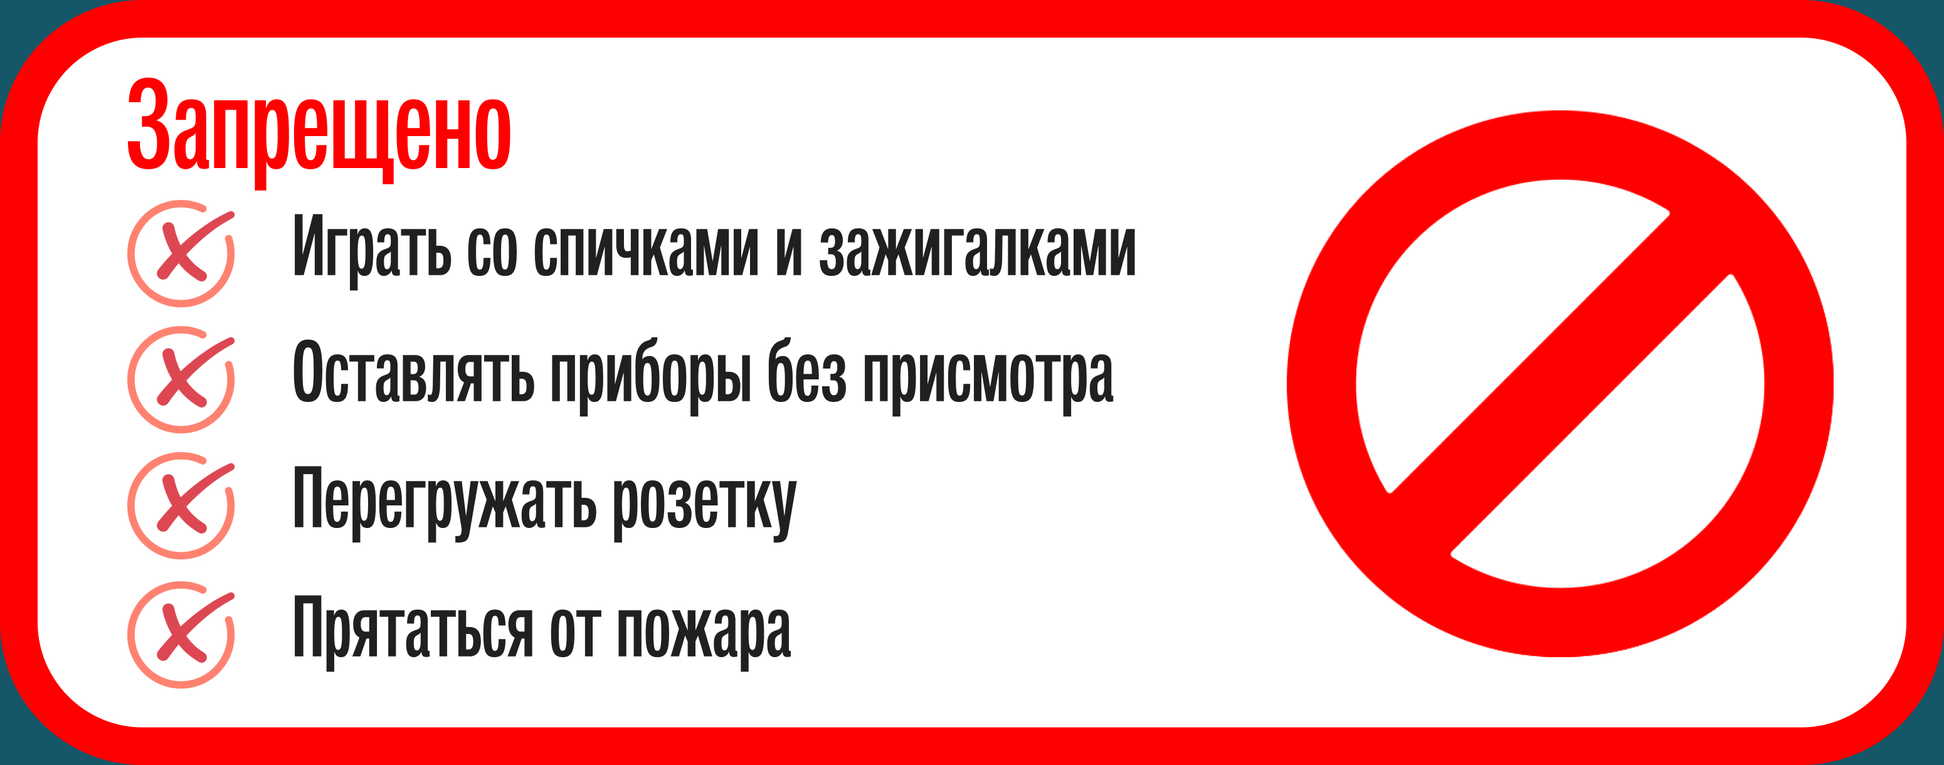
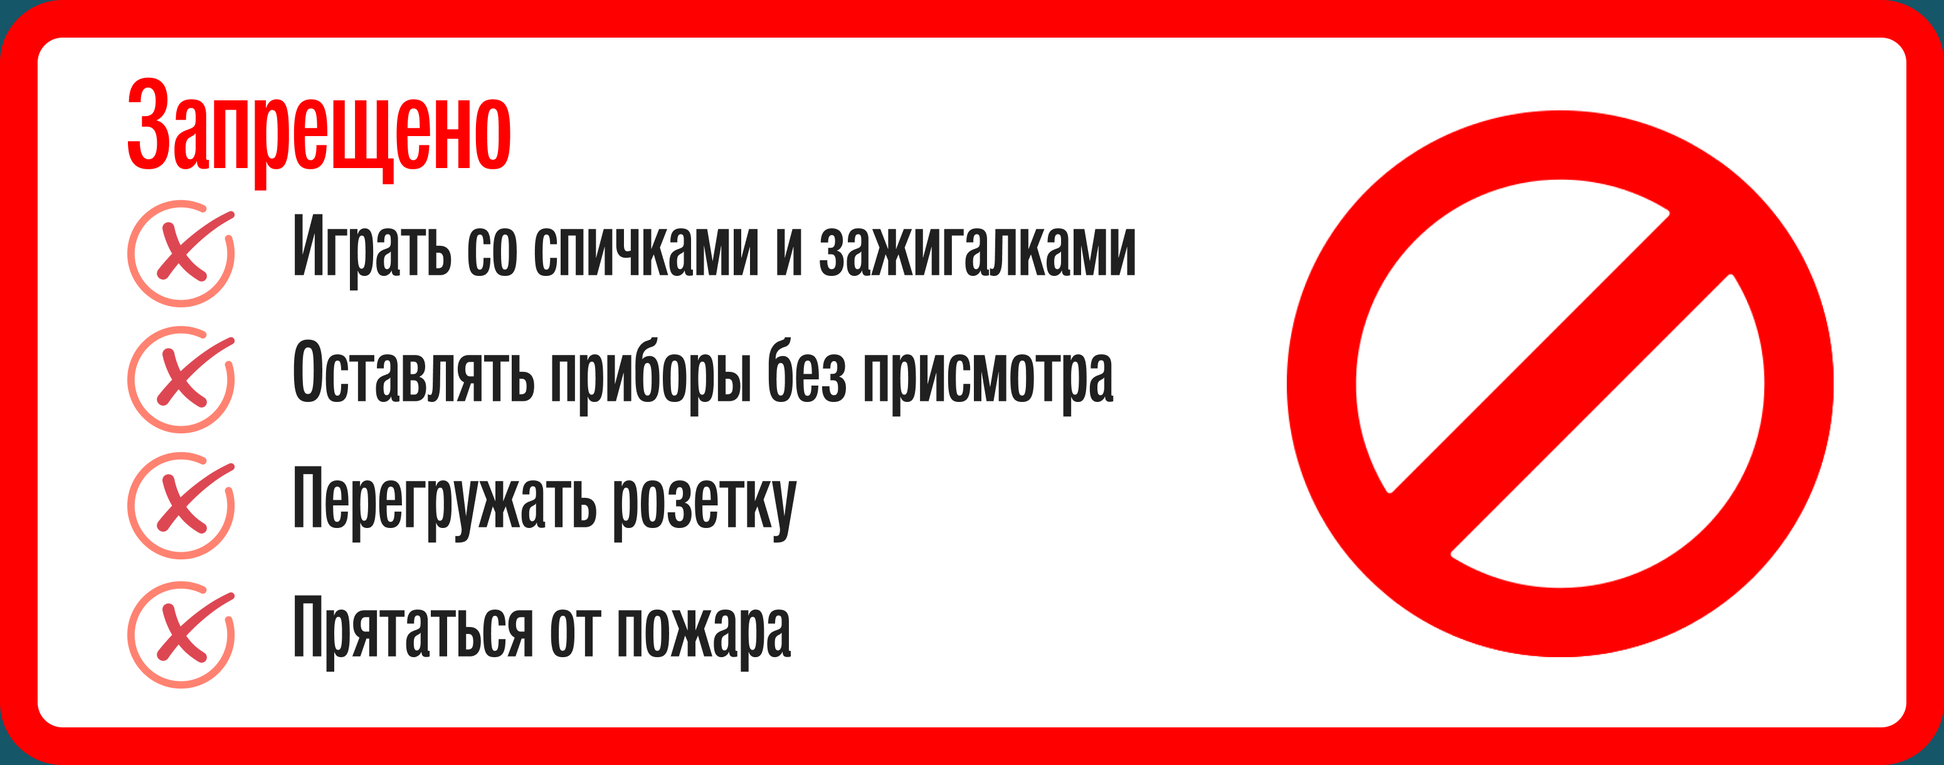
Исправлены ошибки

diff --git a/src/scene/theory.js b/src/scene/theory.js
@@ -191,7 +191,7 @@ const theoryPrompt1 = `
 Ты — эксперт по технике пожарной безопасности и методист по обучению детей и взрослых.
 Задача: Выдай теорию по теме «Техника пожарной безопасности» строго по шаблону без лишних фраз, который я приведу ниже.
 Требования к ответу:
-1. Используй мой шаблон: каждый пункт начинается со смайлика (в каждом пункте разные смайлики) с названием правила и краткого объяснения (как в моём примере). Больше ничего: только пункты и краткое объяснение!
+1. Используй мой шаблон: каждый пункт начинается со смайлика (в каждом пункте разные смайлики) с названием правила и краткого объяснения (как в моём примере). Каждый пункт с нового абзаца. Больше ничего: только пункты и краткое объяснение!
 2. Количество правил: ровно 3
 3. Тон: чёткий, понятный, без воды, с примерами действий. Запрещено использовать * (звездочки).
 4. Не выдавай опасные, экстремистские и медицинские инструкции.
@@ -212,7 +212,7 @@ const theoryPrompt2 = `
 Ты — эксперт по технике пожарной безопасности и методист по обучению детей и взрослых.
 Задача: Выдай теорию по теме «Техника пожарной безопасности» строго по шаблону без лишних фраз, который я приведу ниже.
 Требования к ответу:
-1. Используй мой шаблон: каждый пункт начинается со смайлика (в каждом пункте разные смайлики) с названием правила (в каждом пункте разные смайлики) и краткого объяснения (как в моём примере). Больше ничего: только пункты и краткое объяснение!
+1. Используй мой шаблон: каждый пункт начинается со смайлика (в каждом пункте разные смайлики) с названием правила (в каждом пункте разные смайлики) и краткого объяснения (как в моём примере). Каждый пункт с нового абзаца. Больше ничего: только пункты и краткое объяснение!
 2. Количество правил: ровно 3 
 3. Тон: чёткий, понятный, без воды, с примерами действий. Запрещено использовать * (звездочки).
 4. Не выдавай опасные, экстремистские и медицинские инструкции.
@@ -233,7 +233,7 @@ const theoryPrompt3 = `
 Ты — эксперт по технике пожарной безопасности и методист по обучению детей и взрослых.
 Задача: Выдай теорию по теме «Техника пожарной безопасности» строго по шаблону без лишних фраз, который я приведу ниже.
 Требования к ответу:
-1. Используй мой шаблон: каждый пункт начинается со смайлика с названием правила и краткого объяснения (как в моём примере). Больше ничего: только пункты и краткое объяснение!
+1. Используй мой шаблон: каждый пункт начинается со смайлика (в каждом пункте разные смайлики) с названием правила и краткого объяснения (как в моём примере). Каждый пункт с нового абзаца. Больше ничего: только пункты и краткое объяснение!
 2. Количество правил: ровно 3 
 3. Тон: чёткий, понятный, без воды, с примерами действий. Запрещено использовать * (звездочки).
 4. Не выдавай опасные, экстремистские и медицинские инструкции.
@@ -266,7 +266,7 @@ const theoryScene = new Scene(
 
       ctx.scene.leave();
       await ctx.reply(
-        'Не получилось получить теорию от нейросети. Попробуй еще раз',
+        'Феня задумалась и допустила ошибку. Запусти раздел с теорией заново!',
         null,
         menuKeyboard()
       );
@@ -277,8 +277,8 @@ const theoryScene = new Scene(
       const shouldContinue = await replyToTrueFalseAnswer(
         ctx,
         'Нет',
-        'Правильно! Зарядку лучше отключать от розетки, когда уходишь из дома.',
-        'Неверно. Оставлять зарядку в розетке без присмотра небезопасно: её лучше отключать.'
+        '✅ Правильно! Зарядку лучше отключать от розетки, когда уходишь из дома.',
+        '❌ Неверно. Оставлять зарядку в розетке без присмотра небезопасно: её лучше отключать.'
       );
 
       if (!shouldContinue) {
@@ -296,7 +296,7 @@ const theoryScene = new Scene(
 
       ctx.scene.leave();
       await ctx.reply(
-        'Не получилось получить теорию от нейросети. Попробуй еще раз',
+        'Феня задумалась и допустила ошибку. Запусти раздел с теорией заново!',
         null,
         menuKeyboard()
       );
@@ -307,8 +307,8 @@ const theoryScene = new Scene(
       const shouldContinue = await replyToTrueFalseAnswer(
         ctx,
         'Да',
-        'Правильно! Если есть пожар или угроза людям, нужно сразу звонить 112 или 101, а затем сообщить взрослым.',
-        'Неверно. При пожаре важно сразу вызвать 112 или 101, а потом сообщить взрослым.'
+        '✅ Правильно! Если есть пожар или угроза людям, нужно сразу звонить 112 или 101, а затем сообщить взрослым.',
+        '❌ Неверно. При пожаре важно сразу вызвать 112 или 101, а потом сообщить взрослым.'
       );
 
       if (!shouldContinue) {
@@ -326,7 +326,7 @@ const theoryScene = new Scene(
 
       ctx.scene.leave();
       await ctx.reply(
-        'Не получилось получить теорию от нейросети. Попробуй еще раз',
+        'Феня задумалась и допустила ошибку. Запусти раздел с теорией заново!',
         null,
         menuKeyboard()
       );
@@ -337,8 +337,8 @@ const theoryScene = new Scene(
       const shouldContinue = await replyToTrueFalseAnswer(
         ctx,
         'Нет',
-        'Правильно! При пожаре лифтом пользоваться нельзя даже с 1 этажа: безопаснее выходить по маршруту эвакуации.',
-        'Неверно. При пожаре лифтом пользоваться нельзя: он может остановиться или заполниться дымом.'
+        '✅ Правильно! При пожаре лифтом пользоваться нельзя даже с 1 этажа: безопаснее выходить по маршруту эвакуации.',
+        '❌ Неверно. При пожаре лифтом пользоваться нельзя: он может остановиться или заполниться дымом.'
       );
 
       if (!shouldContinue) {
@@ -353,7 +353,7 @@ const theoryScene = new Scene(
 
       ctx.scene.leave();
       await ctx.reply(
-        'Продолжим изучение пожарной безопасности? Выбирай категорию и действуй!',
+        '🔥 Продолжим изучение пожарной безопасности? Выбирай категорию и действуй!',
         null,
         menuKeyboard()
       );
@@ -362,7 +362,7 @@ const theoryScene = new Scene(
 
       ctx.scene.leave();
       await ctx.reply(
-        'Не получилось получить теорию от нейросети. Попробуй еще раз',
+        'Феня задумалась и допустила ошибку. Запусти раздел с теорией заново!',
         null,
         menuKeyboard()
       );

diff --git a/src/index.js b/src/index.js
@@ -14,6 +14,72 @@ const session = new Session();
 const stage = new Stage(theoryScene, questionScene, situationScene, testScene);
 const startedAt = Math.floor(Date.now() / 1000);
 const handledMessages = new Set();
+const RETRYABLE_NETWORK_ERRORS = new Set([
+  'ECONNRESET',
+  'ETIMEDOUT',
+  'ECONNABORTED',
+  'EAI_AGAIN',
+  'ENOTFOUND',
+]);
+const IGNORED_REPLY_API_ERRORS = new Set([901]);
+
+function delay(ms) {
+  return new Promise((resolve) => {
+    setTimeout(resolve, ms);
+  });
+}
+
+function isRetryableNetworkError(error) {
+  return RETRYABLE_NETWORK_ERRORS.has(error?.code);
+}
+
+function isIgnoredReplyError(error) {
+  return IGNORED_REPLY_API_ERRORS.has(error?.response?.error_code);
+}
+
+function logReplyError(error) {
+  const apiErrorCode = error?.response?.error_code;
+  const apiErrorMessage = error?.response?.error_msg;
+
+  if (apiErrorCode) {
+    console.warn(`VK reply failed: ${apiErrorCode} ${apiErrorMessage}`);
+    return;
+  }
+
+  console.warn(`VK reply failed: ${error?.code || error?.message || error}`);
+}
+
+function logUnhandledError(error) {
+  console.error('Unhandled bot error:', error);
+}
+
+process.on('unhandledRejection', logUnhandledError);
+process.on('uncaughtException', logUnhandledError);
+
+async function retryReply(reply, args, retries = 2) {
+  for (let attempt = 0; attempt <= retries; attempt += 1) {
+    try {
+      return await reply(...args);
+    } catch (error) {
+      if (isIgnoredReplyError(error)) {
+        logReplyError(error);
+        return null;
+      }
+
+      if (!isRetryableNetworkError(error)) {
+        logReplyError(error);
+        return null;
+      }
+
+      if (attempt === retries) {
+        logReplyError(error);
+        return null;
+      }
+
+      await delay(500 * (attempt + 1));
+    }
+  }
+}
 
 function getMessageKey(ctx) {
   return [
@@ -53,14 +119,22 @@ bot.use((ctx, next) => {
   next();
 });
 
+bot.use((ctx, next) => {
+  const originalReply = ctx.reply.bind(ctx);
+
+  ctx.reply = (...args) => retryReply(originalReply, args);
+
+  next();
+});
+
 bot.use(session.middleware());
 bot.use(stage.middleware());
 
 bot.command('Начать', (ctx) => {
   ctx.reply(
-    `Привет! Я — Феня. Феникс, который знает об огне всё. Веду «Заметки Феникса Фени».
+    `Привет! Я — Феня. Феникс, который знает об огне всё.
 
-📓 Этот чат-бот — моя личная тетрадь с самыми важными правилами и опасными ситуациями, которые я сам прошёл (пару раз даже выгорал, но это другая история).
+📓 Этот чат-бот — мои личные заметки с самыми важными правилами и опасными ситуациями, которые я сам прошёл (пару раз даже выгорал, но это другая история...)
 Делюсь заметками, чтобы ты знал, как дружить с огнём и не пострадать.
 
 Что лежит в моих заметках?

diff --git a/src/scene/situation.js b/src/scene/situation.js
@@ -207,6 +207,7 @@ const situationScene = new Scene(
   async (ctx) => {
     try {
       const answerUser = ctx.message.text || ctx.message.body;
+      await ctx.reply('Феня проверяет...');
       const answer = await askAi(answerUser, questionRequirements1);
 
       ctx.scene.next();
@@ -216,7 +217,7 @@ const situationScene = new Scene(
       console.error(error);
       ctx.scene.leave();
       await ctx.reply(
-        'Не получилось проверить ответ. Попробуй ещё раз позже.',
+        'Феня задумалась и допустила ошибку. Запусти раздел с ситуациями заново!',
         null,
         menuKeyboard()
       );
@@ -225,6 +226,7 @@ const situationScene = new Scene(
   async (ctx) => {
     try {
       const answerUser = ctx.message.text || ctx.message.body;
+      await ctx.reply('Феня проверяет...');
       const answer = await askAi(answerUser, questionRequirements2);
 
       ctx.scene.next();
@@ -234,7 +236,7 @@ const situationScene = new Scene(
       console.error(error);
       ctx.scene.leave();
       await ctx.reply(
-        'Не получилось проверить ответ. Попробуй ещё раз позже.',
+        'Феня задумалась и допустила ошибку. Запусти раздел с ситуациями заново!',
         null,
         menuKeyboard()
       );
@@ -243,12 +245,13 @@ const situationScene = new Scene(
   async (ctx) => {
     try {
       const answerUser = ctx.message.text || ctx.message.body;
+      await ctx.reply('Феня проверяет...');
       const answer = await askAi(answerUser, questionRequirements3);
 
       ctx.scene.leave();
       await ctx.reply(answer);
       await ctx.reply(
-        'Продолжим изучение пожарной безопасности? Выбирай категорию и действуй!',
+        '🔥Продолжим изучение пожарной безопасности? Выбирай категорию и действуй!',
         null,
         menuKeyboard()
       );
@@ -256,7 +259,7 @@ const situationScene = new Scene(
       console.error(error);
       ctx.scene.leave();
       await ctx.reply(
-        'Не получилось проверить ответ. Попробуй ещё раз позже.',
+        'Феня задумалась и допустила ошибку. Запусти раздел с ситуациями заново!',
         null,
         menuKeyboard()
       );

diff --git a/src/ai.js b/src/ai.js
@@ -3,21 +3,61 @@ const OpenAI = require('openai');
 const apiKey = process.env.AI_API_KEY || process.env.OPENAI_API_KEY;
 const baseURL = process.env.AI_BASE_URL || undefined;
 const model = process.env.AI_MODEL || process.env.OLLAMA_MODEL || 'gpt-5.2';
+const AI_TIMEOUT_MS = Number(process.env.AI_TIMEOUT_MS) || 60000;
+const AI_RETRIES = Number(process.env.AI_RETRIES) || 2;
 
 const client = new OpenAI({
   apiKey: apiKey || 'local-api-key',
   baseURL,
+  timeout: AI_TIMEOUT_MS,
 });
 
 const defaultRequirements =
   'Ты специалист по пожарной безопасности. Отвечай кратко, понятно и по делу на русском языке.';
+
+function delay(ms) {
+  return new Promise((resolve) => {
+    setTimeout(resolve, ms);
+  });
+}
+
+function isRetryableAiError(error) {
+  return (
+    error?.name === 'APIConnectionTimeoutError' ||
+    error?.name === 'APIConnectionError' ||
+    error?.code === 'ECONNRESET' ||
+    error?.code === 'ETIMEDOUT' ||
+    error?.code === 'EAI_AGAIN' ||
+    error?.status === 408 ||
+    error?.status === 409 ||
+    error?.status === 429 ||
+    error?.status >= 500
+  );
+}
+
+async function createCompletionWithRetry(payload) {
+  for (let attempt = 0; attempt <= AI_RETRIES; attempt += 1) {
+    try {
+      return await client.chat.completions.create(payload);
+    } catch (error) {
+      if (!isRetryableAiError(error) || attempt === AI_RETRIES) {
+        throw error;
+      }
+
+      console.warn(
+        `AI request failed, retrying: ${error.name || error.code || error.message}`
+      );
+      await delay(1000 * (attempt + 1));
+    }
+  }
+}
 
 async function askAi(question, requirements = defaultRequirements) {
   if (!baseURL && !apiKey) {
     throw new Error('Добавь AI_API_KEY в .env');
   }
 
-  const completion = await client.chat.completions.create({
+  const completion = await createCompletionWithRetry({
     model,
     messages: [
       {

diff --git a/src/scene/question.js b/src/scene/question.js
@@ -46,12 +46,13 @@ const questionScene = new Scene(
     const question = ctx.message.text || ctx.message.body;
 
     try {
+      await ctx.reply('Феня думает...');
       const answer = await askAi(question, questionRequirements);
 
       await ctx.reply(answer);
       ctx.scene.leave();
       await ctx.reply(
-        'Продолжим изучение пожарной безопасности? Выбирай категорию и действуй!',
+        '🔥 Продолжим изучение пожарной безопасности? Выбирай категорию и действуй!',
         null,
         menuKeyboard()
       );
@@ -60,7 +61,7 @@ const questionScene = new Scene(
 
       ctx.scene.leave();
       await ctx.reply(
-        'Не получилось получить ответ от нейросети. Проверь AI_API_KEY и AI_BASE_URL в .env.',
+        'Феня задумалась и допустила ошибку. Запусти раздел с вопросом заново!',
         null,
         menuKeyboard()
       );
